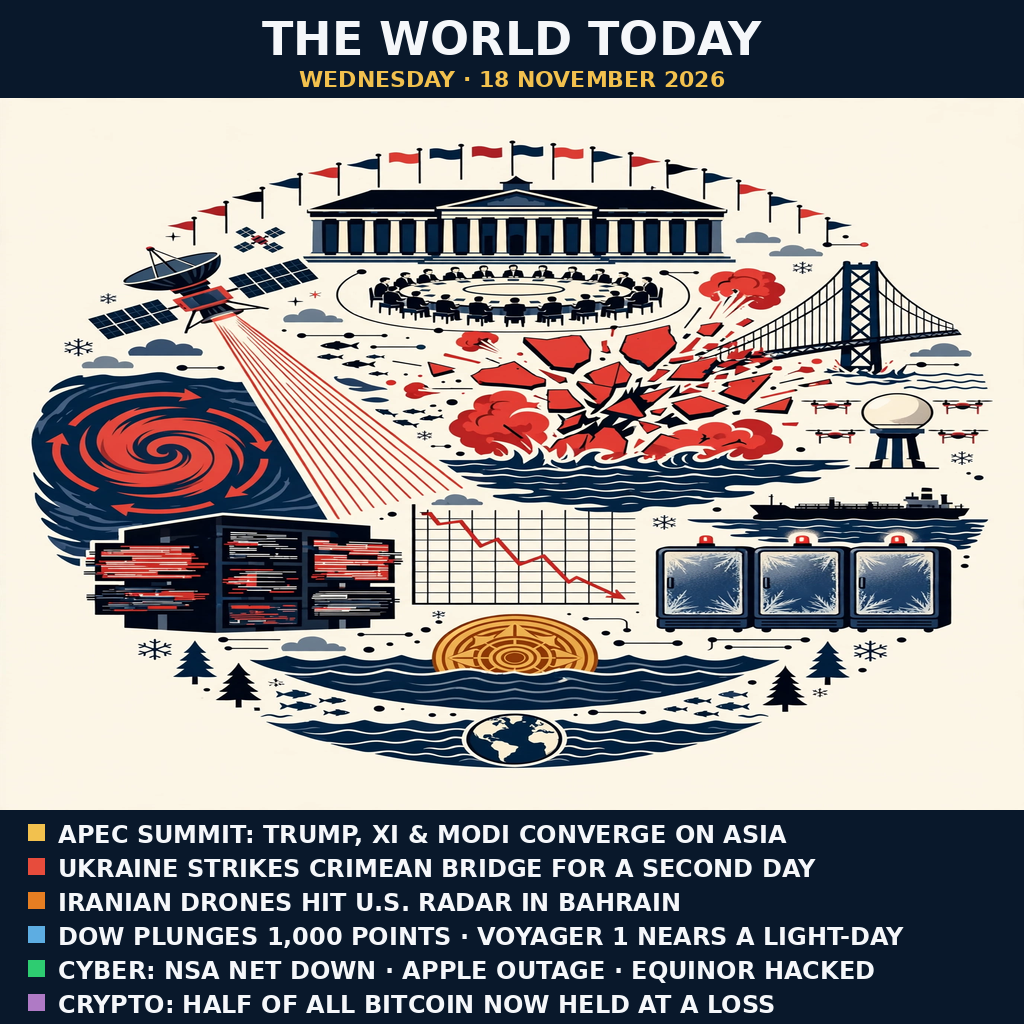
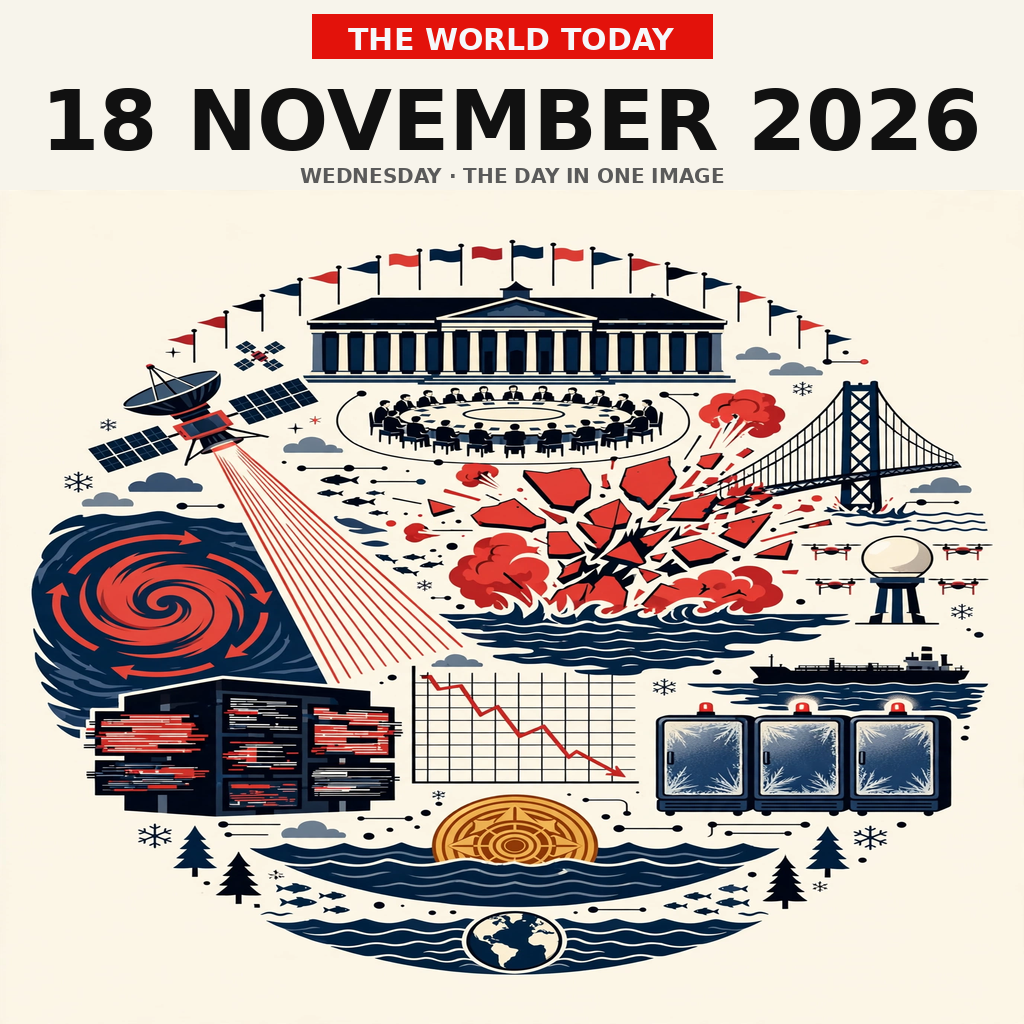
Full-bleed Economist cover layout: red masthead box, large date title, no strips

diff --git a/build_image.py b/build_image.py
@@ -16,8 +16,9 @@ cyber-outage vignette and a Bitcoin vignette:
   - Crypto (bottom left): a Bitcoin coin sinking in heavy seas under a
     plunging chart — about half of all bitcoin is now held at a loss
     after the 50% retreat from October 2025's high
-This script frames it as a front page: masthead on top, six headline
-strips below, and exports a PNG of at most 1024x1024 and 1 MiB.
+This script frames it as a magazine cover in the style of The
+Economist's "The World Ahead": a small red masthead box and a large
+date title above a full-bleed icon collage, at most 1024x1024, 1 MiB.
 """
 from PIL import Image, ImageDraw, ImageFont
 import os
@@ -31,7 +32,7 @@ GOLD = (242, 193, 78)
 WHITE = (245, 247, 250)
 
 W, H = 1024, 1024
-TOP_H, BOT_H = 98, 214
+TOP_H, BOT_H = 190, 0
 
 
 def font(name, size):
@@ -46,12 +47,14 @@ def centered(draw, y, text, fnt, fill):
 def main():
     art = Image.open(SRC).convert("RGB")
     art = art.resize((W, H - TOP_H - BOT_H), Image.LANCZOS)
-    page = Image.new("RGB", (W, H), NAVY)
+    page = Image.new("RGB", (W, H), (247, 244, 235))
     page.paste(art, (0, TOP_H))
     draw = ImageDraw.Draw(page)
 
-    centered(draw, 12, "THE WORLD TODAY", font("DejaVuSans-Bold.ttf", 46), WHITE)
-    centered(draw, 66, "WEDNESDAY · 18 NOVEMBER 2026", font("DejaVuSans-Bold.ttf", 22), GOLD)
+    draw.rectangle([312, 14, 712, 58], fill=(227, 18, 11))
+    centered(draw, 22, "THE WORLD TODAY", font("DejaVuSans-Bold.ttf", 30), WHITE)
+    centered(draw, 72, "18 NOVEMBER 2026", font("DejaVuSans-Bold.ttf", 84), (17, 17, 17))
+    centered(draw, 164, "WEDNESDAY · THE DAY IN ONE IMAGE", font("DejaVuSans-Bold.ttf", 20), (90, 90, 90))
 
     headlines = [
         ((242, 193, 78), "APEC SUMMIT: TRUMP, XI & MODI CONVERGE ON ASIA"),

diff --git a/README.md b/README.md
@@ -44,7 +44,9 @@ compiled from the morning's wire and front-page reports of 18 Nov 2026.
 
 The illustration is a flat red/black/navy icon collage in the style of
 *The Economist*'s "The World Ahead" covers — a circular globe of small
-iconic scenes, one per story.
+iconic scenes, one per story. The layout mirrors those covers too:
+a small red masthead box and a large date title over the full-bleed
+collage, with no headline strips.
 
 ## License
 
